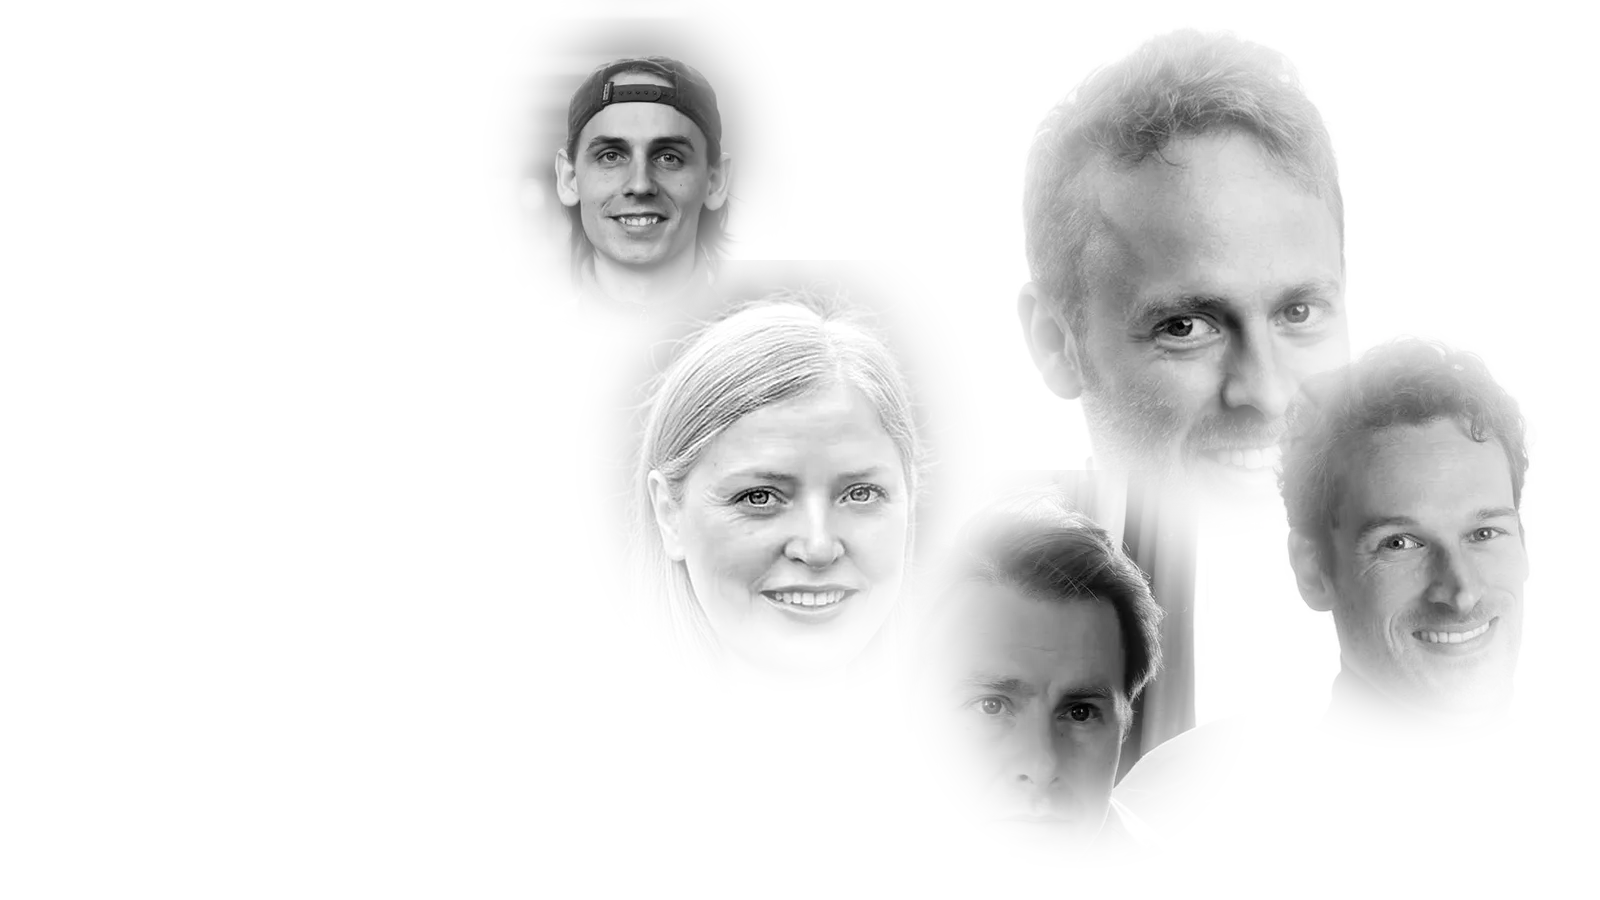
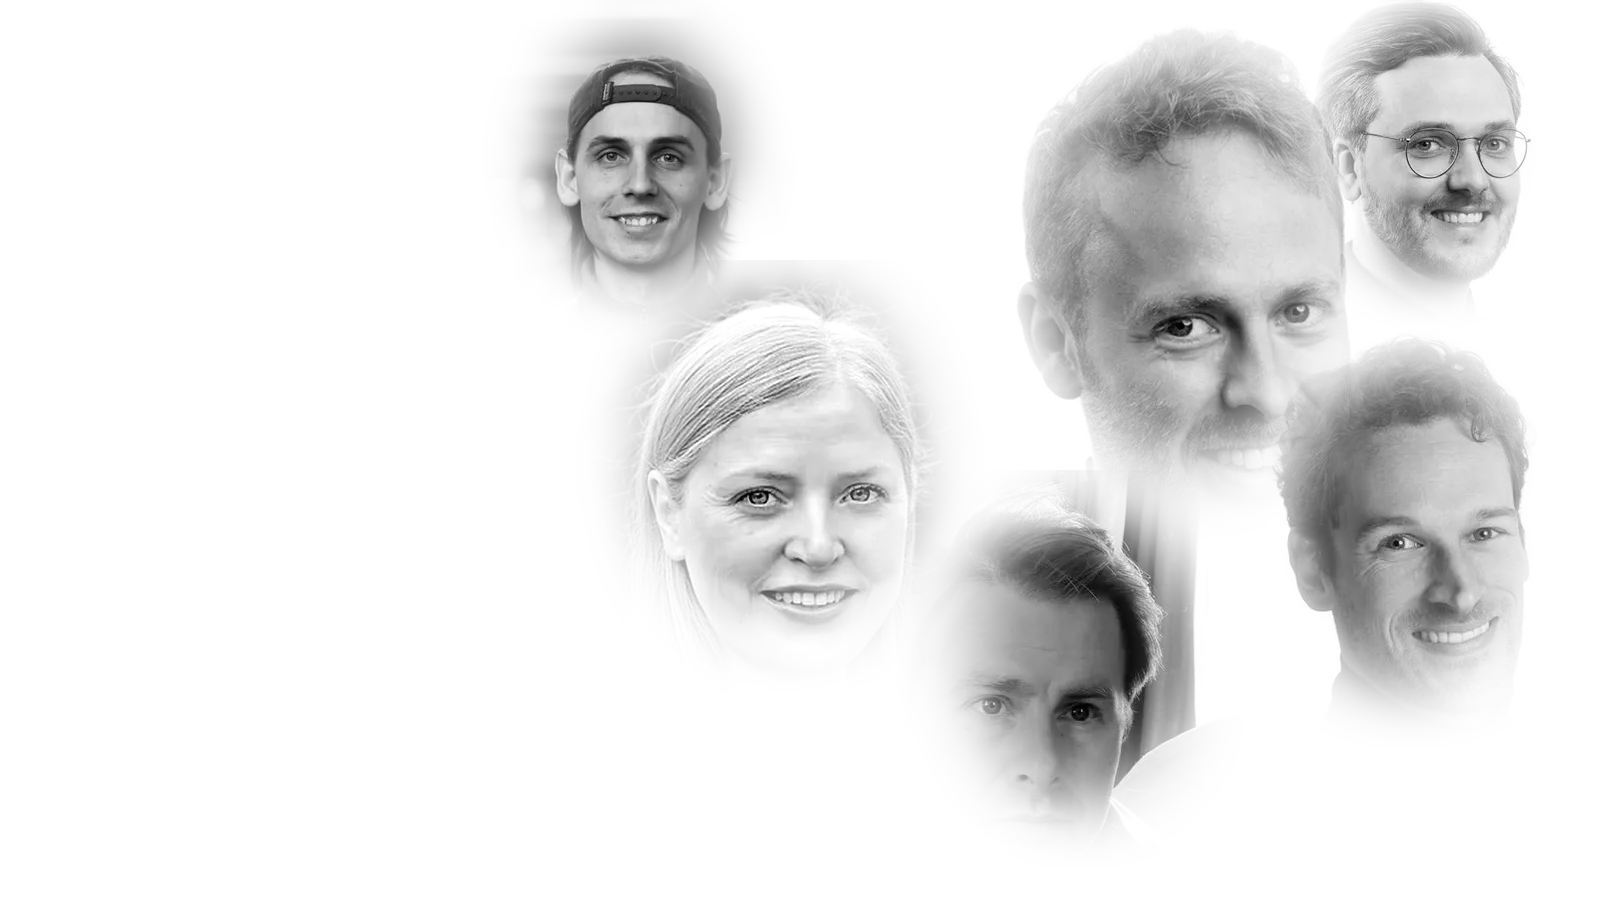
Ny ambassadør: Jonas
Claude-Session: https://claude.ai/code/session_01CQzGZjepbnUh9g4ihJNrxV

Changed region(s): [[0.8125, 0.0, 0.9688, 0.3422]]

diff --git a/ambassaden/public/index.html b/ambassaden/public/index.html
@@ -135,6 +135,14 @@
           <p>Kenny har erfaring fra Newton-rommet.</p>
         </div>
       </article>
+      <article class="profil">
+        <div class="bilder"><img class="foto" src="img/jonas-portrett.webp" alt="Portrett av Jonas"><img class="ikon" src="img/jonas-ikon.png" alt="Jonas"></div>
+        <div>
+          <h3>Jonas</h3>
+          <p class="rolle">Master i fysikk</p>
+          <p>Jonas er en ekstremt dyktig formidler, med bachelorgrad i datavitenskap og master i fysikk.</p>
+        </div>
+      </article>
     </div>
   </section>
 
